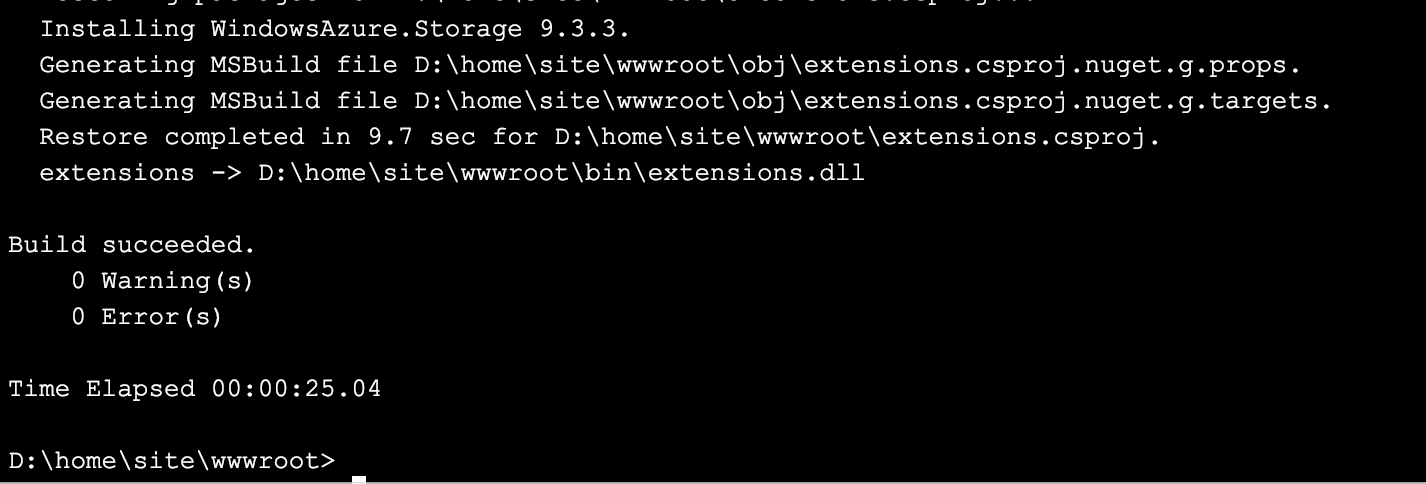
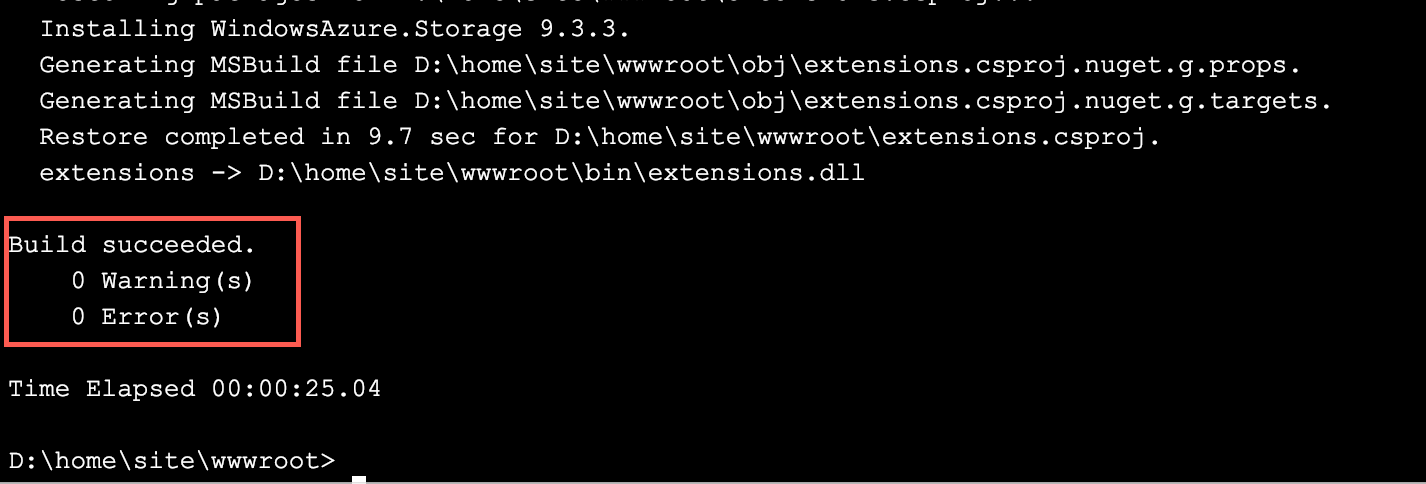
Build succeeded

Changed region(s): [[0.0, 0.4339, 0.216, 0.7438]]

diff --git a/labs/01_serverless/serverless.md b/labs/01_serverless/serverless.md
@@ -354,7 +354,7 @@ Once you have created an Azure Function App, you can add Azure Functions to it. 
     dotnet build extensions.csproj -o bin --no-incremental --packages D:\home\.nuget
     ```
 
-    The following output is roughly expected:
+    You should see a "Build succeeded" message:
     ![dotnet console](./media/dotnet-output.png)
 
 1. Click the **Save** button (1) at the top of the code editor to save your changes. Then click **Run** (2) button to execute the code shown in the editor. Open the log panel (3) and look at the error output (4). A message like *"[...] The specified container does not exist."* is **expected** at this moment!
